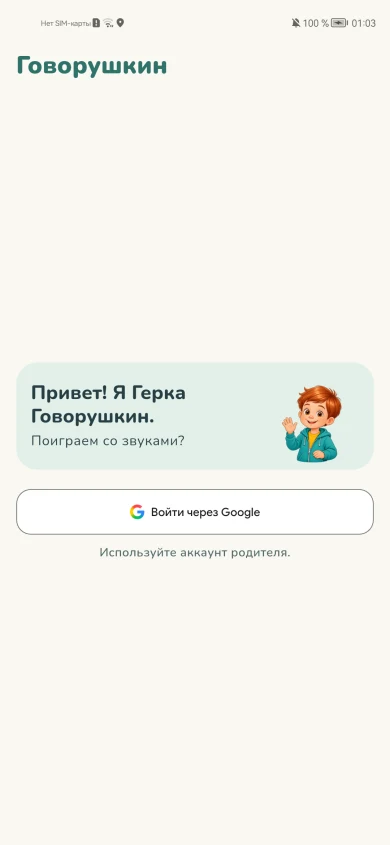
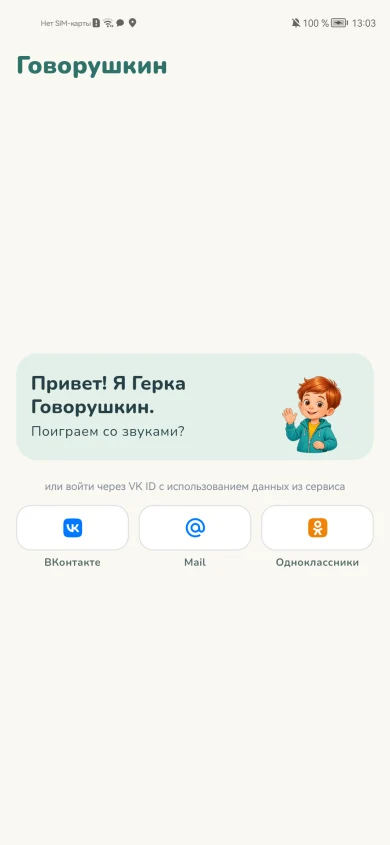
docs(site): show native VK ID sign-in

diff --git a/public/index.html b/public/index.html
@@ -80,7 +80,7 @@
           <div class="screen-grid">
             <figure class="screen-card sonorants">
               <figcaption><h3>Вход</h3></figcaption>
-              <div class="phone"><img src="./assets/screens/login.webp" alt="Экран входа с приветствием Герки Говорушкина и кнопкой Войти через Google" width="390" height="845" loading="lazy" decoding="async"></div>
+              <div class="phone"><img src="./assets/screens/login.webp" alt="Экран входа с приветствием Герки и тремя кнопками: ВКонтакте, Mail и Одноклассники" width="390" height="845" loading="lazy" decoding="async"></div>
             </figure>
             <figure class="screen-card whistling">
               <figcaption><h3>Занятия</h3></figcaption>
@@ -105,7 +105,7 @@
         <section class="about section" id="about" aria-labelledby="about-title">
           <div class="about-copy">
             <h2 id="about-title">Что уже есть</h2>
-            <p>Подготовили вход через аккаунт родителя в Google. После входа открываются четыре направления и выбор звука. Упражнения готовятся.</p>
+            <p>На экране входа доступны ВКонтакте, Mail и Одноклассники. После входа открываются четыре направления и выбор звука. Упражнения готовятся.</p>
             <p>Далее — упражнения с картинками и озвучкой, запись и прослушивание голоса.</p>
           </div>
           <div class="project-note" id="contact">

diff --git a/docs/STATE.md b/docs/STATE.md
@@ -3,7 +3,7 @@
 18.11.2026. Сайт знакомит с «Говорушкиным», Android-приложением для домашней
 речевой практики детей 4–7 лет по рекомендациям логопеда.
 
-- Галерея показывает вход Google, занятия, звук Р и артикуляцию. Первые два
+- Галерея показывает вход с тремя кнопками VK ID, занятия, звук Р и артикуляцию. Первые два
   экрана сняты на Honor 20, для «Занятий» использована тестовая сессия.
 - Страница сообщает о подготовке входа и упражнений. Публичного доступа к
   аккаунтам, записи голоса, установки из RuStore и оплаты на сайте нет.
@@ -18,5 +18,5 @@
 - Галерея содержит четыре снимка. Снимки и локальный Nunito загружаются.
   Проверены равные карточки, отсутствие горизонтальной прокрутки,
   переходы к разделам, клавиатурный фокус и страница лицензии. Ошибок
-  браузера или неудачных загрузок нет. Кадры и журнал в `output/auth-update/`.
+  браузера или неудачных загрузок нет. Кадры и журнал в `output/vk-id-three/`.
 - `git diff --check` прошёл. В публикацию входит только `public/`.
